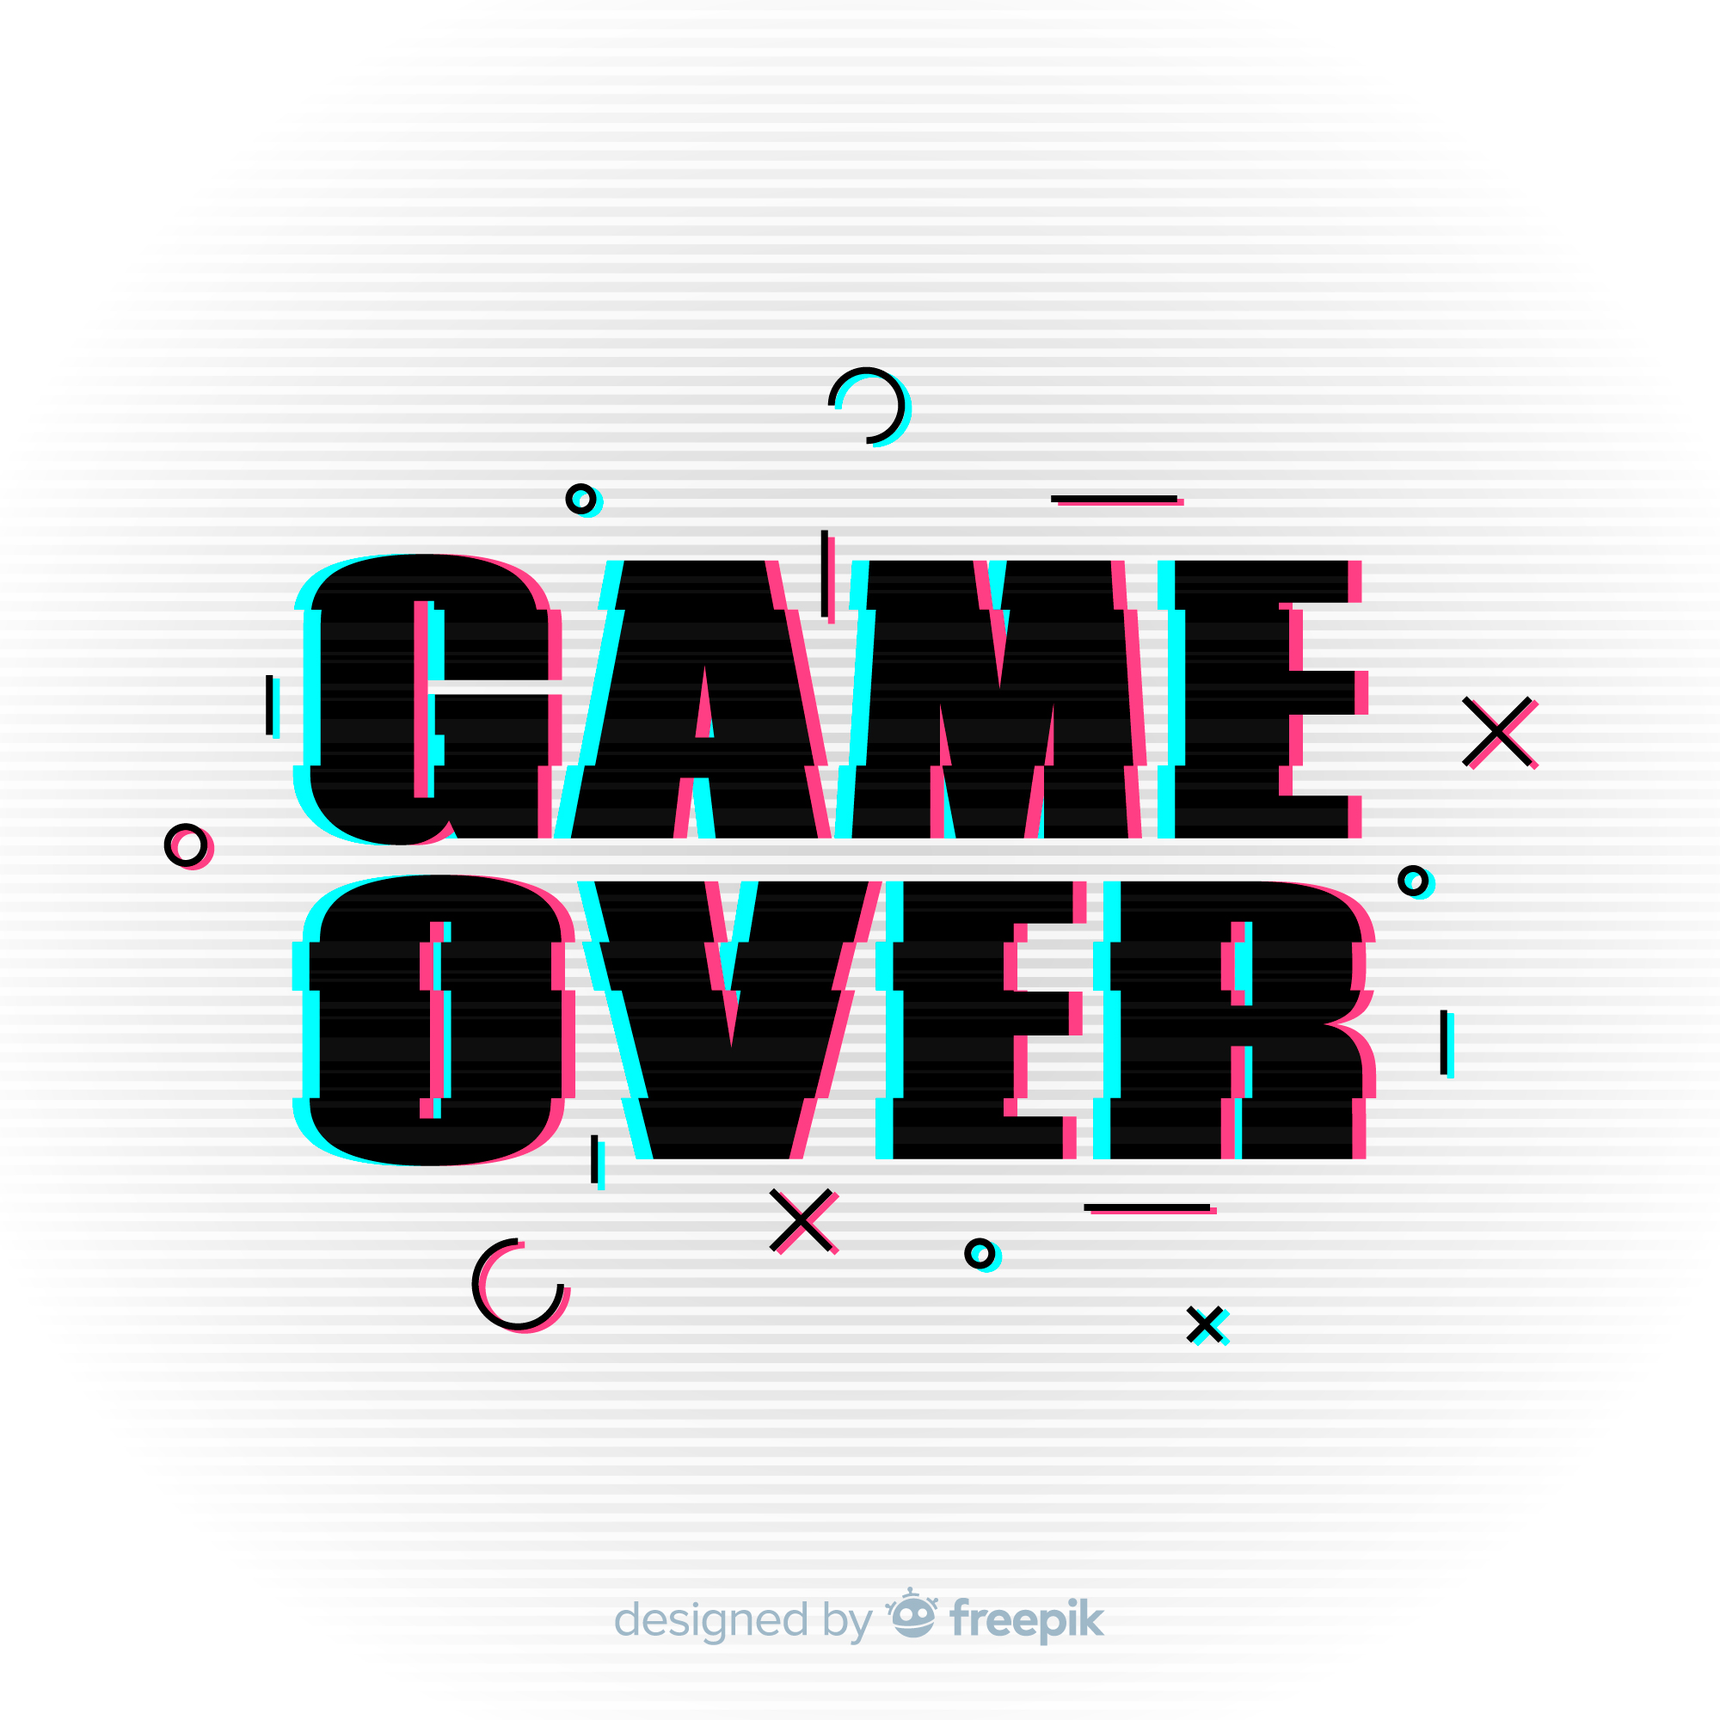
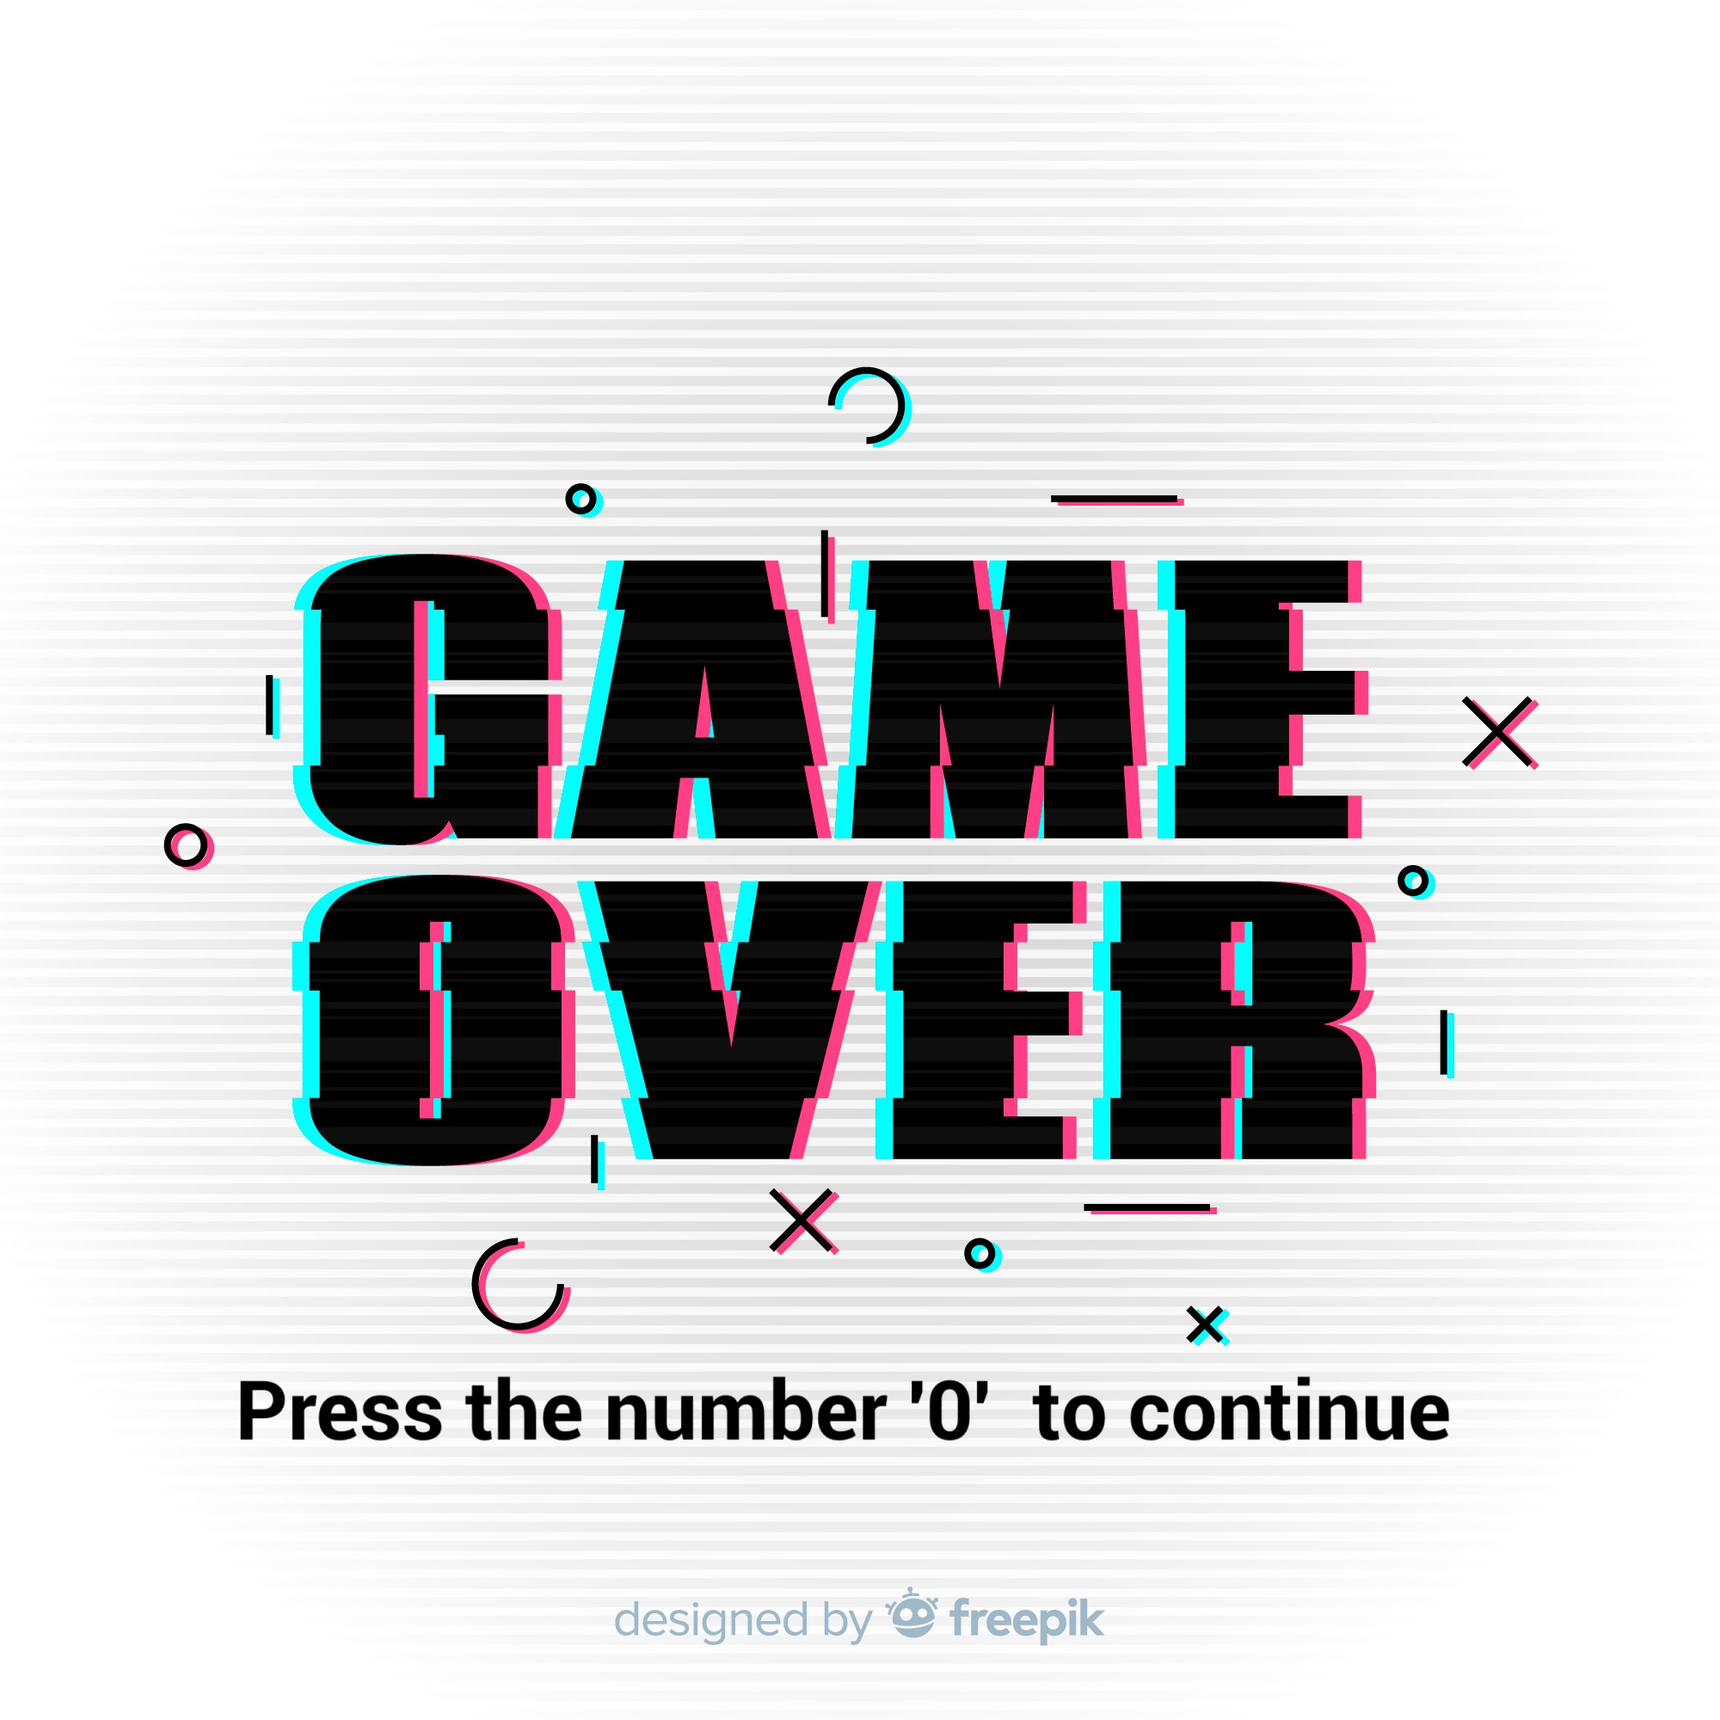
All sign loaded

Changed region(s): [[0.124, 0.806, 0.837, 0.837], [0.558, 0.341, 0.589, 0.372], [0.155, 0.403, 0.186, 0.434]]

diff --git a/main.cpp b/main.cpp
@@ -54,7 +54,7 @@ float scale_Z = 1.0;
 
 // camera
 float camera_z = 0.0f;
-Camera camera(glm::vec3(0.0f, 30.0f, -15.0f));
+Camera camera(glm::vec3(0.0f, 32.0f, -17.0f));
 //Camera camera(glm::vec3(0.0f, 1.2f, 40.0f));
 float lastX = SCR_WIDTH / 2.0f;
 float lastY = SCR_HEIGHT / 2.0f;
@@ -94,8 +94,8 @@ glm::vec3 pointLightPositions[] = {
     glm::vec3(0.0f,  30.0f,  15.0f),
     glm::vec3(3.0f,  30.0f,  20.0f),
     glm::vec3(3.0f,  30.0f,  25.0f),
-    glm::vec3(6.0f,  30.0f,  30.0f),
-    glm::vec3(0.0f,  30.0f,  35.0f),
+    glm::vec3(0.0f, 35.0f, -20.0f),
+    glm::vec3(0.0f, 35.0f, -20.0f),
     glm::vec3(-6.0f,  30.0f,  40.0f),
     glm::vec3(-13.0f,  30.0f,  50.0f),
 
@@ -354,8 +354,8 @@ bool onTrack = true;
 float deltaTime = 0.0f;    // time between current frame and last frame
 float lastFrame = 0.0f;
 float speed = 0.003;
-
-int level = 1;
+int life = 3;
+int level = 3;
 bool t1_ON = false, t2_ON = false, t3_ON = false, t4_ON = false;
 bool start = false;
 bool GameFinished = false;
@@ -521,6 +521,12 @@ int main()
     string l1Path = "life1.png";
     string l2Path = "life2.png";
     string l3Path = "life3.png";
+    string finishPath = "finished.jpg";
+    string startPath = "start_text.png";
+    string t1SignPath = "t1.png";
+    string t2SignPath = "t2.png";
+    string t3SignPath = "t3.png";
+    string t4SignPath = "t4.png";
 
     unsigned int sandMap = loadTexture(sandPath.c_str(), GL_REPEAT, GL_REPEAT, GL_LINEAR_MIPMAP_LINEAR, GL_LINEAR);
     unsigned int r1Map = loadTexture(r1Path.c_str(), GL_REPEAT, GL_REPEAT, GL_LINEAR_MIPMAP_LINEAR, GL_LINEAR);
@@ -534,6 +540,14 @@ int main()
     unsigned int l1Map = loadTexture(l1Path.c_str(), GL_REPEAT, GL_REPEAT, GL_LINEAR_MIPMAP_LINEAR, GL_LINEAR);
     unsigned int l2Map = loadTexture(l2Path.c_str(), GL_REPEAT, GL_REPEAT, GL_LINEAR_MIPMAP_LINEAR, GL_LINEAR);
     unsigned int l3Map = loadTexture(l3Path.c_str(), GL_REPEAT, GL_REPEAT, GL_LINEAR_MIPMAP_LINEAR, GL_LINEAR);
+    unsigned int finishMap = loadTexture(finishPath.c_str(), GL_REPEAT, GL_REPEAT, GL_LINEAR_MIPMAP_LINEAR, GL_LINEAR);
+    unsigned int StartMap = loadTexture(startPath.c_str(), GL_REPEAT, GL_REPEAT, GL_LINEAR_MIPMAP_LINEAR, GL_LINEAR);
+    unsigned int t1SignMap = loadTexture(t1SignPath.c_str(), GL_REPEAT, GL_REPEAT, GL_LINEAR_MIPMAP_LINEAR, GL_LINEAR);
+    unsigned int t2SignMap = loadTexture(t2SignPath.c_str(), GL_REPEAT, GL_REPEAT, GL_LINEAR_MIPMAP_LINEAR, GL_LINEAR);
+    unsigned int t3SignMap = loadTexture(t3SignPath.c_str(), GL_REPEAT, GL_REPEAT, GL_LINEAR_MIPMAP_LINEAR, GL_LINEAR);
+    unsigned int t4SignMap = loadTexture(t4SignPath.c_str(), GL_REPEAT, GL_REPEAT, GL_LINEAR_MIPMAP_LINEAR, GL_LINEAR);
+
+
 
     Cube sand = Cube(sandMap, sandMap, 32.0f, 0.0f, 0.0f, 1.0f, 1.0f);
     Cube rail = Cube(r1Map, r1Map, 32.0f, 0.0f, 0.0f, 1.0f, 1.0f);
@@ -547,6 +561,12 @@ int main()
     Cube life1 = Cube(l1Map, l1Map, 32.0f, 0.0f, 0.0f, 1.0f, 1.0f);
     Cube life2 = Cube(l2Map, l2Map, 32.0f, 0.0f, 0.0f, 1.0f, 1.0f);
     Cube life3 = Cube(l3Map, l3Map, 32.0f, 0.0f, 0.0f, 1.0f, 1.0f);
+    Cube finish = Cube(finishMap, finishMap, 32.0f, 0.0f, 0.0f, 1.0f, 1.0f);
+    Cube startText = Cube(StartMap, StartMap, 32.0f, 0.0f, 0.0f, 1.0f, 1.0f);
+    Cube t1Sign = Cube(t1SignMap, t1SignMap, 32.0f, 0.0f, 0.0f, 1.0f, 1.0f);
+    Cube t2Sign = Cube(t2SignMap, t2SignMap, 32.0f, 0.0f, 0.0f, 1.0f, 1.0f);
+    Cube t3Sign = Cube(t3SignMap, t3SignMap, 32.0f, 0.0f, 0.0f, 1.0f, 1.0f);
+    Cube t4Sign = Cube(t4SignMap, t4SignMap, 32.0f, 0.0f, 0.0f, 1.0f, 1.0f);
 
     //collected coins
 
@@ -641,9 +661,10 @@ int main()
     bool crashed = false;
     float time = 0.0f;
     int level1_time = 12;
-    int level2_time = 15;
-    int level3_time = 16;
-    int life = 3;
+    int level2_time = 20;
+    int level3_time = 20;
+    int l3_time = 20;
+    
     Sphere health = Sphere();
     health.diffuse = glm::vec3(1.0, 0.0, 0.0);
 
@@ -873,12 +894,15 @@ int main()
         }
 
          
-        //-------------------Testing------------------//
 
-
-        //-------------------Testing------------------//
-
-
+        if (GameFinished)
+        {
+            rotateXMatrix = glm::rotate(identityMatrix, glm::radians(50.0f), glm::vec3(1.0, 0.0, 0.0));
+            translateMatrix = glm::translate(identityMatrix, glm::vec3(-5.0, 22.0, -15.0));
+            scaleMatrix = glm::scale(identityMatrix, glm::vec3(10.0f, 10.0, 0.5f));
+            glm::mat4 modelForFinish = translateMatrix * rotateXMatrix * scaleMatrix;
+            finish.drawCubeWithTexture(lightingShaderWithTexture, modelForFinish);
+        }
         
 
         if (life == 0)
@@ -887,7 +911,7 @@ int main()
             {
                 gameOver = true;
                 rotateXMatrix = glm::rotate(identityMatrix, glm::radians(50.0f), glm::vec3(1.0, 0.0, 0.0));
-                translateMatrix = glm::translate(identityMatrix, glm::vec3(-5.0, 22.0, -15.0));
+                translateMatrix = glm::translate(identityMatrix, glm::vec3(-5.0, 23.5, -16.0));
                 scaleMatrix = glm::scale(identityMatrix, glm::vec3(10.0f, 10.0, 0.5f));
                 glm::mat4 modelForGO = translateMatrix * rotateXMatrix * scaleMatrix;
                 GO.drawCubeWithTexture(lightingShaderWithTexture, modelForGO);
@@ -906,12 +930,56 @@ int main()
                 {
                     level = 2;
                     life = 3;
-                    level2_time = 15;
+                    level2_time = 20;
                     t2_ang = -90.0;
                     t3_ang = -90.0;
+                    down = true;
+                    frot = true;
                 }
             }
         }
+
+
+
+        if (!start)
+        {
+            rotateXMatrix = glm::rotate(identityMatrix, glm::radians(45.0f), glm::vec3(1.0, 0.0, 0.0));
+            translateMatrix = glm::translate(identityMatrix, glm::vec3(-2.5, 0.5, 19.0));
+            scaleMatrix = glm::scale(identityMatrix, glm::vec3(5.0, 2.0, 0.05f));
+            glm::mat4 modelForStart = translateMatrix * rotateXMatrix * scaleMatrix;
+            startText.drawCubeWithTexture(lightingShaderWithTexture, modelForStart);
+        }
+
+
+
+        translateMatrix = glm::translate(identityMatrix, glm::vec3(22.0, 0.5, 20.0));
+        rotateXMatrix = glm::rotate(identityMatrix, glm::radians(45.0f), glm::vec3(1.0, 0.0, 0.0));
+        scaleMatrix = glm::scale(identityMatrix, glm::vec3(2.0, 2.0, 0.05f));
+        glm::mat4 modelForSign = translateMatrix * rotateXMatrix * scaleMatrix;
+        t2Sign.drawCubeWithTexture(lightingShaderWithTexture, modelForSign);
+
+        translateMatrix = glm::translate(identityMatrix, glm::vec3(-24.0, 0.5, 20.0));
+        scaleMatrix = glm::scale(identityMatrix, glm::vec3(2.0, 2.0, 0.05f));
+        modelForSign = translateMatrix * rotateXMatrix * scaleMatrix;
+        t1Sign.drawCubeWithTexture(lightingShaderWithTexture, modelForSign);
+
+        if(level>=2)
+        {
+            translateMatrix = glm::translate(identityMatrix, glm::vec3(-1.0,2.0, 42.0));
+            scaleMatrix = glm::scale(identityMatrix, glm::vec3(2.0, 2.0, 0.05f));
+            modelForSign = translateMatrix * rotateXMatrix * scaleMatrix;
+            t3Sign.drawCubeWithTexture(lightingShaderWithTexture, modelForSign);
+        }
+
+        if (level >= 3)
+        {
+            translateMatrix = glm::translate(identityMatrix, glm::vec3(-4.0, 0.5,3.0));
+            scaleMatrix = glm::scale(identityMatrix, glm::vec3(2.0, 2.0, 0.05f));
+            modelForSign = translateMatrix * rotateXMatrix * scaleMatrix;
+            t4Sign.drawCubeWithTexture(lightingShaderWithTexture, modelForSign);
+        }
+
+
 
         //-------------For Level 1---------------//
 
@@ -977,7 +1045,10 @@ int main()
             modelForRail = translateMatrix * rotateYMatrix * scaleMatrix;
             drawCube(cubeVAO, lightingShader, modelForRail, 0.020, 0.106, 0.188);
 
-
+            translateMatrix = glm::translate(identityMatrix, glm::vec3(1.0, 0.0, 40.0));
+            scaleMatrix = glm::scale(identityMatrix, glm::vec3(-2.0f, 0.3f, 4.0f));
+            modelForRail = translateMatrix * scaleMatrix;
+            drawCube(cubeVAO, lightingShader, modelForRail, 0.004, 0.125, 0.302);
 
             //second train
             translateMatrix = glm::translate(identityMatrix, glm::vec3(-20.0, 0.0, 19.5));
@@ -1016,6 +1087,10 @@ int main()
 
                 zz -= 2.0f;
             }
+            translateMatrix = glm::translate(identityMatrix, glm::vec3(1.0, 0.0, 0.0));
+            scaleMatrix = glm::scale(identityMatrix, glm::vec3(-2.0f, 0.3f, -4.0f));
+            modelForRail = translateMatrix * scaleMatrix;
+            drawCube(cubeVAO, lightingShader, modelForRail, 0.0, 0.392, 0.196);
 
             translateMatrix = glm::translate(identityMatrix, glm::vec3(0.5, 0.0, 19.5));
             scaleMatrix = glm::scale(identityMatrix, glm::vec3(0.2f, 0.3f, -20.0f));
@@ -1054,6 +1129,8 @@ int main()
                 start = false;
                 t1_x = -20.0,  t1_z = 20.0f, t1_ang = 0.0f;
                 t2_x = 20.0,  t2_z = 20.0f, t2_ang = 0.0f;
+                t1_reached = false;
+                t2_reached = false;
                 if(life>0)
                     life--;
                 level1_time = 12;
@@ -1137,6 +1214,8 @@ int main()
                 start = false;
                 t1_x = -20.0, t1_z = 20.0f, t1_ang = 0.0f;
                 t2_x = 20.0, t2_z = 20.0f, t2_ang = 0.0f;
+                t1_reached = false;
+                t2_reached = false;
                 if (life > 0)
                     life--;
                 level1_time = 12;
@@ -1244,7 +1323,10 @@ int main()
                 drawCube(cubeVAO, lightingShader, modelForRail, 0.020, 0.106, 0.188);
                 zz += 2.0;
             }
-
+            translateMatrix = glm::translate(identityMatrix, glm::vec3(-19.0, 0.0, 30));;
+            scaleMatrix = glm::scale(identityMatrix, glm::vec3(-2.0f, 0.3f, 4.0f));
+            modelForRail = translateMatrix * scaleMatrix;
+            drawCube(cubeVAO, lightingShader, modelForRail, 0.020, 0.106, 0.188);
 
 
             //---------------------For train 1-----------------------//
@@ -1284,6 +1366,10 @@ int main()
 
                 zz -= 2.0f;
             }
+            translateMatrix = glm::translate(identityMatrix, glm::vec3(11.0, 0.0, 0.0));
+            scaleMatrix = glm::scale(identityMatrix, glm::vec3(-2.0f, 0.3f, -4.0f));
+            modelForRail = translateMatrix * scaleMatrix;
+            drawCube(cubeVAO, lightingShader, modelForRail, 0.0, 0.392, 0.196);
 
             translateMatrix = glm::translate(identityMatrix, glm::vec3(10.5, 0.0, 19.5));
             scaleMatrix = glm::scale(identityMatrix, glm::vec3(0.2f, 0.3f, -20.0f));
@@ -1316,7 +1402,10 @@ int main()
                 drawCube(cubeVAO, lightingShader, modelForRail, 0.545, 0.0, 0.0);
                 zz -= 2.0f;
             }
-
+            translateMatrix = glm::translate(identityMatrix, glm::vec3(1.0, 0.0, 0.0));
+            scaleMatrix = glm::scale(identityMatrix, glm::vec3(-2.0f, 0.3f, -4.0f));
+            modelForRail = translateMatrix * scaleMatrix;
+            drawCube(cubeVAO, lightingShader, modelForRail, 0.545, 0.0, 0.0);
 
 
 
@@ -1399,7 +1488,7 @@ int main()
                 frot = true;
                 if (life > 0)
                     life--;
-                level2_time = 15;
+                level2_time = 20;
             }
 
             if (t1_reached && t2_reached && t3_reached)
@@ -1417,6 +1506,7 @@ int main()
                 t1_x = -20.0, t1_z = 20.0f, t1_ang = 0.0f;
                 t2_x = 20.0, t2_z = 20.0f, t2_ang = 0.0f;
                 t3_x = 0.0, t3_z = 40.0f, t3_ang = -180.0f;
+                t4_x = 0.0, t4_z = 0.0f, t4_ang = 0.0f;
             }
 
 
@@ -1445,7 +1535,7 @@ int main()
                 t3_x = 0.0, t3_z = 40.0f, t3_ang = -90.0f;
                 if (life > 0)
                     life--;
-                level2_time = 15;
+                level2_time = 20;
             }
 
             int A[2];
@@ -1526,7 +1616,10 @@ int main()
                 zz -= 2.0;
             }
 
-           
+            translateMatrix = glm::translate(identityMatrix, glm::vec3(1.0, 0.0, 0.0));;
+            scaleMatrix = glm::scale(identityMatrix, glm::vec3(-2.0f, 0.3f, -4.0f));
+            modelForRail = translateMatrix * scaleMatrix;
+            drawCube(cubeVAO, lightingShader, modelForRail, 0.020, 0.106, 0.188);
 
 
           
@@ -1569,6 +1662,10 @@ int main()
 
                 zz += 2.0f;
             }
+            translateMatrix = glm::translate(identityMatrix, glm::vec3(11.0, 0.0, 40.0));
+            scaleMatrix = glm::scale(identityMatrix, glm::vec3(-2.0f, 0.3f, 4.0f));
+            modelForRail = translateMatrix * scaleMatrix;
+            drawCube(cubeVAO, lightingShader, modelForRail, 0.0, 0.392, 0.196);
 
             translateMatrix = glm::translate(identityMatrix, glm::vec3(10.5, 0.0, 19.5));
             scaleMatrix = glm::scale(identityMatrix, glm::vec3(0.2f, 0.3f, 20.0f));
@@ -1627,7 +1724,10 @@ int main()
                 zz -= 2.0f;
             }
 
-
+            translateMatrix = glm::translate(identityMatrix, glm::vec3(19, 0.0, 10.0));
+            scaleMatrix = glm::scale(identityMatrix, glm::vec3(2.0f, 0.3f, -4.0f));
+            modelForRail = translateMatrix * scaleMatrix;
+            drawCube(cubeVAO, lightingShader, modelForRail, 0.545, 0.0, 0.0);
 
 
             //--------------------For Train 4--------------------//
@@ -1677,6 +1777,10 @@ int main()
                 drawCube(cubeVAO, lightingShader, modelForRail, 0.722, 0.525, 0.043);
                 zz += 2.0f;
             }
+            translateMatrix = glm::translate(identityMatrix, glm::vec3(-9.0, 0.0, 40.0));
+            scaleMatrix = glm::scale(identityMatrix, glm::vec3(-2.0f, 0.3f, 4.0f));
+            modelForRail = translateMatrix * scaleMatrix;
+            drawCube(cubeVAO, lightingShader, modelForRail, 0.722, 0.525, 0.043);
             
             //stop sign
             translateMatrix = glm::translate(identityMatrix, glm::vec3(8.0, 0.0, 22.0));;
@@ -1792,14 +1896,40 @@ int main()
                 t1_x = -20.0, t1_z = 20.0f, t1_ang = 0.0f;
                 t2_x = 20.0, t2_z = 20.0f, t2_ang = 0.0f;
                 t3_x = 0.0, t3_z = 40.0f, t3_ang = -180.0f;
+                t4_x = 0.0, t4_z = 0.0f, t4_ang = 0.0f;
                 if (life > 0)
                     life--;
-                level3_time = 16;
+                level3_time = l3_time;
             }
 
             if (t1_reached && t2_reached && t3_reached && t4_reached)
             {
-                GameFinished = true;
+                if (l3_time == 20)
+                {
+                    l3_time = 16;
+
+                    t1_ON = false;
+                    t2_ON = false;
+                    t3_ON = false;
+                    t4_ON = false;
+
+                    start = false;
+                    t1_reached = false;
+                    t2_reached = false;
+                    t3_reached = false;
+                    t4_reached = false;
+
+                    t1_x = -20.0, t1_z = 20.0f, t1_ang = 0.0f;
+                    t2_x = 20.0, t2_z = 20.0f, t2_ang = 0.0f;
+                    t3_x = 0.0, t3_z = 40.0f, t3_ang = -180.0f;
+                    t4_x = 0.0, t4_z = 0.0f, t4_ang = 0.0f;
+
+                    life = 3;
+                    level3_time = l3_time;
+                }
+                    
+                else
+                    GameFinished = true;
             }
 
 
@@ -1829,7 +1959,7 @@ int main()
                 t4_x = 0.0, t4_z = 0.0f, t4_ang = 0.0f;
                 if (life > 0)
                     life--;
-                level3_time = 16;
+                level3_time = l3_time;
             }
 
             int A[2];
@@ -1940,13 +2070,21 @@ void key_callback(GLFWwindow* window, int key, int scancode, int action, int mod
         t2_ON = true;
         
     }
-    else if (!gameOver && !GameFinished && start && key == GLFW_KEY_3 && action == GLFW_PRESS)
+    else if (level>1 && !gameOver && !GameFinished && start && key == GLFW_KEY_3 && action == GLFW_PRESS)
     {
         t3_ON = true;
     }
-    else if (!gameOver && !GameFinished && start && key == GLFW_KEY_4 && action == GLFW_PRESS)
+    else if (level > 2 && !gameOver && !GameFinished && start && key == GLFW_KEY_4 && action == GLFW_PRESS)
     {
         t4_ON = true;
+    }
+
+    else if ((gameOver || GameFinished) &&  key == GLFW_KEY_0 && action == GLFW_PRESS)
+    {
+        gameOver = false;
+        GameFinished = false;
+        level = 1;
+        life = 3;
     }
     
 
